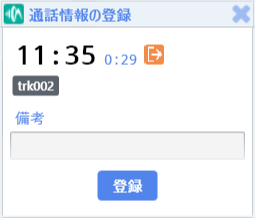
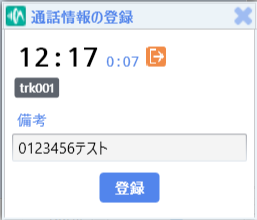
0420 naka 感情解析完了

diff --git a/詳解 Communication Suite 機能編.md b/詳解 Communication Suite 機能編.md
@@ -600,7 +600,7 @@ ControlCenter の詳細設定に設定項目があります。
 No. | 原因| 対処 |
 ----:|---------|-------|
 1 | 通話フィルタに登録したコマンドに問題がある |登録したコマンドが Windows上で実行できるコマンドである必要があります。該当PCより「ファイル名を指定して実行」から登録したコマンドが実行できるか確認してください。  
-2 | 通話フィルタの起動条件を満たしていない |フィルタの条件で、起動条件を指定しますが、キーワードがテキスト化された時に指定した条件を満たしているか確認してください。   
+2 | 通話フィルタの起動条件を満たしていない |フィルタの条件で、起動条件を指定しますが、キーワードがテキスト化された時に指定した条件を満たしているか確認してください。(対象話者、検出対象回線種別など）   
 3 | 呼び出すファイルの拡張子が対応していない |該当PCのWindows上から呼び出すファイルが直接起動できるか確認ください。その他に既定のプログラム、アプリ、ブラウザなどに対象ファイルの拡張子を関連付けてください。
 
  6. ヘルプ    
@@ -637,9 +637,11 @@ OperatorAgent から SpeechVisualizer の座席表に登録したヘルプ要求
 
 7. 感情解析   
 送話と受話側の発話内容をリアルタイムで感情に数値化して表示する機能です。  
-感情解析は音声データから解析しており、テキスト化された文字を解析対象としていません。
+感情解析は音声データをもとに解析を行っており、テキストデータを解析対象としていません。
 
-- OperatorAgentの感情解析機能 ([@fig:emo1])([@fig:emo２])([@fig:emo3])  
+- OperatorAgentの感情解析機能([@fig:emo0]) ([@fig:emo1])([@fig:emo２])([@fig:emo3])  
+
+  ![オペレータのコンディション](images/2-1-感情バロメーター.png){#fig:emo0 width=150px}
 
   ![発話に紐づく感情](images/2-1-通話感情.png){#fig:emo1 width=450px}
 
@@ -727,45 +729,43 @@ No. | 設定分類| 設定項目名                | 設定内容      |
 : 利用可能な感情一覧 {#tbl:emolist}
 
 - 感情解析ライセンスの消費について  
-
-  感情解析が利用できる通話数には上限があり、感情解析ライセンス数に依存します。  
-  原則として Communication Suite が1通話とカウントした数だけ感情解析ライセンスが消費されます。  
-  消費したライセンスは月ごとにリセットされて 0 に戻ります。（月はじめ1日のAM9:00にリセット）  
+  感情解析が利用可能な通話数には月ごとに上限があり、感情解析ライセンス数に依存します。  
+  ライセンスの消費は Communication Suite が1通話とカウントした数だけ感情解析ライセンスが１つ消費されます。  
+  消費したライセンスは月ごとにリセットされて 「0」 に戻ります。（月はじめ1日のAM9:00にリセット）  
 
   ライセンス数は ContronCenter / システム管理 / ライセンス状況 /感情解析ライセンス管理 で確認できます。（[@fig:kanjo]）  
 
 ![感情解析ライセンス管理 画面](images/2-1-感情ライセンス.png){#fig:kanjo width=600px}  
 
-　　「今月の感情解析通話数」は以下の計算式で算出されています。【要確認】  
+　　「今月の感情解析通話数」は以下の計算式で算出されています。  
+　　１内線あたり、月 3,000 通話としてライセンス処理可能な契約となっています。  
 　　例） 5 内線分のライセンス環境の場合  
 　　１ヵ月あたり、5内線 × 3,000通話 = 15,000通話となります。  
-　　※サーバ版の場合は、どの内線での録音かは関係なく、合計の通話数が 15,000になるまで処理されます。  
-　　クライアント版の場合は、内線数に関係なく、クライアント版のラインセンス数(=インストール数)となります。
 
 
 
-　　１つの通話でも、以下のような条件下でさらに感情解析ライセンスが消費されます。  
 
-　　・ 保留により通話が分割された場合（保留前、保留後で２つライセンスを使用）【要確認】  
+　　１つの通話でも、以下のような条件下では感情解析ライセンスが消費されます。  
+　　・ 保留により通話が分割された場合（保留前、保留後で２つライセンスを使用）  
 　　・ 通話を転送した場合（転送元、転送先で２つライセンスを使用）  
 　　・ 再認識を実施した通話（ConrtolCenter の認識オプションの設定で感情解析が有効の場合）  
 　　・ 電話機のモニタ機能で録音されたモニタリング側の通話  
-　　・ 「短い通話の録音キャンセル」機能によりキャンセルされた通話（CCの設定【要確認】）  
-　　・ 「長い通話の分割」機能により分割された通話（CCの設定【要確認】）   
+　　・ 「短い通話の録音キャンセル」機能によりキャンセルされた通話（CCの設定場所【要確認】）  
+　　・ 「長い通話の分割」機能により分割された通話（CCの設定場所【要確認】）   
 
 
 - 感情解析の対象範囲  
   １通話内で感情解析の対象とする範囲を設定することができます。  
-  設定はControlCenter / 認識オプション にあります。（[@fig:ninsiki1])（[@fig:ninsiki2]）   
+  設定はControlCenter / 認識オプション にあります。
 
 
-	![認識オプション（オペレータ） 画面](images/2-1-認識オプション1.png){#fig:ninsiki1 width=400px}  
+	No. | 設定タブ項目 | 設定項目名                | 設定内容      |説明      |
+  ----:|---------------------|------------------|--------------|--------------|
+  1   |オペレータ / カスタマ | 感情解析で無視する冒頭区間 |ミリ秒単位で設定 |感情解析の対象外とする冒頭区間を指定します。この区間内に通話終了した場合は感情解析ライセンスが消費されません。  
+  2   |オペレータ / カスタマ | 感情解析の開始区間 |ミリ秒単位で設定 |感情解析が開始されてから開始区間の平均値を取得する区間を指定します。  
+  3   |オペレータ / カスタマ | 感情解析の終了区間 |ミリ秒単位で設定|感情解析の終了区間の平均値を取得する区間を指定します。  
 
-
-	![認識オプション（カスタマ） 画面](images/2-1-認識オプション2.png){#fig:ninsiki2 width=400px}  
-
-
-
+  ※感情解析の開始・終了区間はオペレータとカスタマで別の値を設定した場合は正しく動作しません。両方で同じ値で設定してご利用ください。
 
 #### 1-2-3. 通話終了後の機能
 
@@ -795,20 +795,19 @@ No. | 設定分類| 設定項目名                | 設定内容      |
 
 2. 通話終了後に通話属性を設定する  
 通話終了後に通話に紐づく通話属性を追加することができる機能です。  
-通話終了後、([@fig:callp2])がポップアップ表示されて通話属性を登録することが可能です。  
+通話終了後、([@fig:callp2])がポップアップ表示されて通話属性を登録することが可能です。通話リストからも登録できます。  
+
+![手動通話属性の入力画面](images/2-1-通話属性ポップアップ画面2.png){#fig:callp2 width=450px}  
 
 
-![手動通話属性の入力画面](images/2-1-通話属性ポップアップ画面.png){#fig:callp2 width=200px}  
-
-
-
+手動で通話属性を追加する項目は ConttrolCenter の詳細設定項目にあります。
 
 No. | 設定分類| 設定項目名                | 設定内容      |
 ----:|---------------------|------------------|--------------|
 1   |OperatorAgent - 通話| 通話終了後に手動で通話属性を設定可能にする|True で手動通話属性の設定可能  
 2  |共通 - 通話| 手動で設定可能な通話属性|手動で設定可能な通話属性を指定  
 
-手動で追加可能な通話属性は（[1-2-2. 通話表示機能　表 11: OperatorAgent 表示する通話属性で利用可能な通話属性一覧](#1-2-2. 通話表示機能) 参照。）  
+追加可能な通話属性は（[1-2-2. 通話表示機能　表 11: OperatorAgent 表示する通話属性で利用可能な通話属性一覧](#1-2-2. 通話表示機能) 参照。）  
 
 
 
